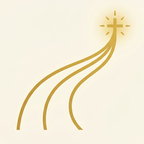
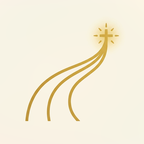
앱 아이콘 여백 다듬기, 안드로이드용·알림용 아이콘 추가
- 그림을 82%로 줄여 가운데 정렬, 선 굵기는 원래대로 유지 (색·모양은 그대로)
- 안드로이드 원형 아이콘에서 십자가가 잘리던 문제: 안전 범위 안에 넣은 마스커블 아이콘 따로 추가
- 알림 줄 작은 아이콘: 투명 바탕 흰 그림(badge-72)으로 교체
- favicon.ico 16·32·48 포함, 1024 원본 크기 추가
- 캐시 버전 v37

Claude-Session: https://claude.ai/code/session_01FVqbdNQoZRrRwezBfWobF3

Changed region(s): [[0.1111, 0.0556, 0.9167, 0.9167]]

diff --git a/sw.js b/sw.js
@@ -41,7 +41,7 @@ messaging.onBackgroundMessage((payload) => {
   self.registration.showNotification(title, {
     body: body,
     icon: './icons/icon-192.png',
-    badge: './icons/icon-72.png',
+    badge: './icons/badge-72.png',
     tag: 'firststep-meeting',
     data: data,
   });
@@ -65,7 +65,7 @@ self.addEventListener('notificationclick', (event) => {
   );
 });
 
-const CACHE_VERSION = 'firststep-v36';
+const CACHE_VERSION = 'firststep-v37';
 const APP_SHELL = [
   './',
   './index.html',
